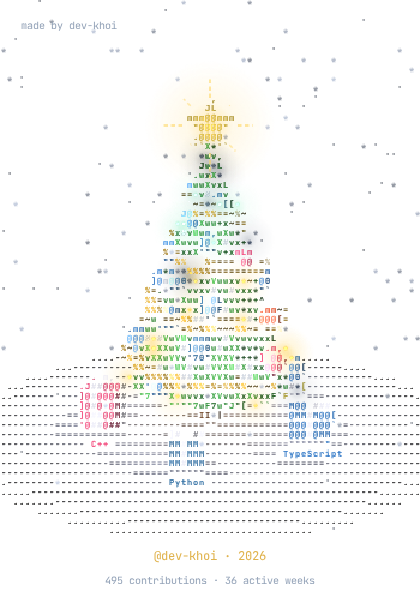
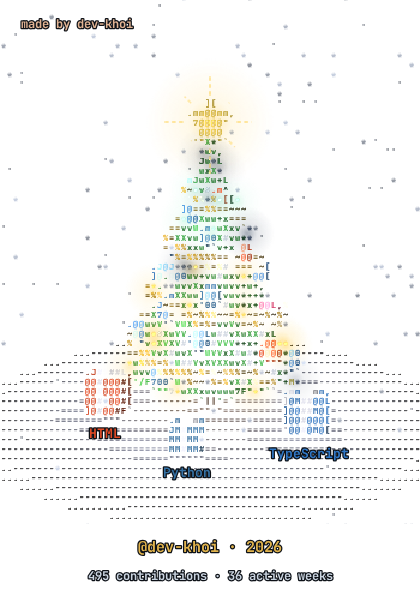
Refresh Gitmas tree

diff --git a/gitmas/preview.html b/gitmas/preview.html
@@ -641,6 +641,7 @@ var MerryGitmas = (() => {
       };
     }
     const scene = buildScene();
+    const giftLabels = [];
     const giftCycles = options.reference ? 1 : Math.max(1, Math.ceil(6 / Math.max(1, scene.gifts.length)));
     const weeklyLights = /* @__PURE__ */ new Map();
     if (!options.reference && options.state) {
@@ -1056,6 +1057,7 @@ var MerryGitmas = (() => {
           drawn++;
         }
       }
+      giftLabels.length = 0;
       const giftAngle = options.reference ? 0 : tAbs * TAU / 24 * (giftCycles - 1);
       const giftCos = Math.cos(Math.atan2(sinT, cosT) + giftAngle);
       const giftSin = Math.sin(Math.atan2(sinT, cosT) + giftAngle);
@@ -1072,6 +1074,16 @@ var MerryGitmas = (() => {
         const w = CAM_DIST / (CAM_DIST - zv) * scale;
         const row = Math.floor((centerY - yv * w - gridY) / cellH) + 1;
         if (row < 0 || row >= rows) return;
+        if (!options.reference) {
+          giftLabels.push({
+            text: name,
+            x: centerX + xr * w,
+            y: gridY + (row + 0.5) * cellH,
+            color: options.state?.languages[gi]?.color ?? "#d9a73c",
+            facing
+          });
+          return;
+        }
         const col0 = Math.round(
           (centerX + xr * w - gridX) / cellW - name.length / 2
         );
@@ -1389,6 +1401,9 @@ var MerryGitmas = (() => {
         gifts: scene.gifts.length,
         flakes: flakes.count
       },
+      get giftLabels() {
+        return giftLabels;
+      },
       geometry: {
         positions: scene.P,
         normals: scene.N,
@@ -1409,7 +1424,7 @@ var MerryGitmas = (() => {
     if (!ctx) throw new Error("Canvas 2D is unavailable.");
     const treeCanvas = document.createElement("canvas");
     treeCanvas.width = canvas.width;
-    const footer = Math.round(canvas.width * 0.15);
+    const footer = Math.round(canvas.width * 0.18);
     treeCanvas.height = canvas.height - footer;
     const bottomPadding = Math.min(48, treeCanvas.height * 0.1);
     const layoutHeight = treeCanvas.height - bottomPadding;
@@ -1419,28 +1434,57 @@ var MerryGitmas = (() => {
     const cropHeight = treeCanvas.height / zoom;
     const cropX = (treeCanvas.width - cropWidth) / 2;
     const cropY = layoutHeight - layoutHeight / zoom;
-    function draw(seconds, buildProgress = 1) {
+    const textCanvas = document.createElement("canvas");
+    textCanvas.width = canvas.width;
+    textCanvas.height = canvas.height;
+    const text = textCanvas.getContext("2d", { willReadFrequently: true });
+    if (!text) throw new Error("Text canvas 2D is unavailable.");
+    function label(value, x, y, size, color, align = "center") {
+      text.font = `bold ${size}px "JetBrains Mono", monospace`;
+      text.textAlign = align;
+      text.textBaseline = "middle";
+      text.lineJoin = "round";
+      text.lineWidth = 2.5;
+      text.strokeStyle = "#0d1117";
+      text.fillStyle = color;
+      text.strokeText(value, Math.round(x), Math.round(y), canvas.width - 28);
+      text.fillText(value, Math.round(x), Math.round(y), canvas.width - 28);
+    }
+    function draw(seconds, buildProgress = 1, crispText = false) {
       tree.draw(seconds, buildProgress);
       ctx.clearRect(0, 0, canvas.width, canvas.height);
       ctx.imageSmoothingEnabled = false;
       ctx.drawImage(treeCanvas, cropX, cropY, cropWidth, cropHeight, 0, 0, treeCanvas.width, treeCanvas.height);
-      ctx.textAlign = "left";
-      ctx.textBaseline = "top";
-      ctx.font = `${Math.max(9, canvas.width * 0.024)}px "JetBrains Mono", monospace`;
-      ctx.fillStyle = "#94a3b8";
-      ctx.fillText("made by dev-khoi", Math.max(16, canvas.width * 0.05), Math.max(16, canvas.width * 0.05));
       if (!options.transparent) {
         ctx.fillStyle = "#080e1b";
         ctx.fillRect(0, treeCanvas.height, canvas.width, footer);
       }
-      ctx.textAlign = "center";
-      ctx.textBaseline = "middle";
-      ctx.font = `${Math.max(9, canvas.width * 0.029)}px "JetBrains Mono", monospace`;
-      ctx.fillStyle = "#e0b34d";
-      ctx.fillText(`@${state.login} \xB7 ${state.year}${state.demo ? " \xB7 DEMO" : ""}`, canvas.width / 2, treeCanvas.height + footer * 0.32, canvas.width - 24);
-      ctx.font = `${Math.max(8, canvas.width * 0.024)}px "JetBrains Mono", monospace`;
-      ctx.fillStyle = "#94a3b8";
-      ctx.fillText(`${state.contributions.toLocaleString("en-US")} contributions \xB7 ${state.activeWeeks} active weeks`, canvas.width / 2, treeCanvas.height + footer * 0.7, canvas.width - 24);
+      text.clearRect(0, 0, canvas.width, canvas.height);
+      const languageSize = Math.max(12, Math.round(canvas.width * 0.031));
+      const placed = [];
+      for (const gift of tree.giftLabels.filter((gift2) => gift2.facing >= 0.35).sort((a, b) => a.y - b.y)) {
+        text.font = `bold ${languageSize}px "JetBrains Mono", monospace`;
+        const width = Math.min(text.measureText(gift.text).width, canvas.width - 28);
+        const x = Math.max(width / 2 + 12, Math.min(canvas.width - width / 2 - 12, (gift.x - cropX) * zoom));
+        let y = Math.min(treeCanvas.height - languageSize, (gift.y - cropY) * zoom + 4);
+        for (const other of placed) {
+          if (Math.abs(x - other.x) < (width + other.width) / 2 + 8 && Math.abs(y - other.y) < languageSize + 5) {
+            y = Math.min(treeCanvas.height - languageSize, other.y + languageSize + 6);
+            if (Math.abs(y - other.y) < languageSize + 5) y = other.y - languageSize - 6;
+          }
+        }
+        placed.push({ x, y, width });
+        label(gift.text, x, y, languageSize, gift.color);
+      }
+      label("made by dev-khoi", Math.max(16, canvas.width * 0.05), Math.max(22, canvas.width * 0.06), Math.max(11, Math.round(canvas.width * 0.029)), "#e1b494", "left");
+      label(`@${state.login} \xB7 ${state.year}${state.demo ? " \xB7 DEMO" : ""}`, canvas.width / 2, treeCanvas.height + footer * 0.32, Math.max(13, Math.round(canvas.width * 0.036)), "#e0b34d");
+      label(`${state.contributions.toLocaleString("en-US")} contributions \xB7 ${state.activeWeeks} active weeks`, canvas.width / 2, treeCanvas.height + footer * 0.7, Math.max(11, Math.round(canvas.width * 0.029)), "#cbd5e1");
+      if (crispText) {
+        const image = text.getImageData(0, 0, canvas.width, canvas.height);
+        for (let i = 3; i < image.data.length; i += 4) image.data[i] = image.data[i] >= 96 ? 255 : 0;
+        text.putImageData(image, 0, 0);
+      }
+      ctx.drawImage(textCanvas, 0, 0);
     }
     return { draw, counts: tree.counts };
   }
@@ -1448,7 +1492,7 @@ var MerryGitmas = (() => {
 })();
 </script>
 <script>
-const state = {"login":"dev-khoi","year":2026,"seed":1299292730,"contributions":495,"activeWeeks":36,"longestStreak":25,"scale":0.8996045915761144,"fullness":0.6129285308902092,"twinkle":0.29,"weeks":[{"index":0,"startsOn":"2025-12-29","count":0,"observed":true,"longest":false},{"index":1,"startsOn":"2026-01-05","count":2,"observed":true,"longest":true},{"index":2,"startsOn":"2026-01-12","count":20,"observed":true,"longest":true},{"index":3,"startsOn":"2026-01-19","count":2,"observed":true,"longest":true},{"index":4,"startsOn":"2026-01-26","count":1,"observed":true,"longest":true},{"index":5,"startsOn":"2026-02-02","count":12,"observed":true,"longest":true},{"index":6,"startsOn":"2026-02-09","count":25,"observed":true,"longest":true},{"index":7,"startsOn":"2026-02-16","count":4,"observed":true,"longest":true},{"index":8,"startsOn":"2026-02-23","count":17,"observed":true,"longest":true},{"index":9,"startsOn":"2026-03-02","count":33,"observed":true,"longest":true},{"index":10,"startsOn":"2026-03-09","count":11,"observed":true,"longest":true},{"index":11,"startsOn":"2026-03-16","count":30,"observed":true,"longest":true},{"index":12,"startsOn":"2026-03-23","count":23,"observed":true,"longest":true},{"index":13,"startsOn":"2026-03-30","count":14,"observed":true,"longest":true},{"index":14,"startsOn":"2026-04-06","count":13,"observed":true,"longest":true},{"index":15,"startsOn":"2026-04-13","count":6,"observed":true,"longest":true},{"index":16,"startsOn":"2026-04-20","count":15,"observed":true,"longest":true},{"index":17,"startsOn":"2026-04-27","count":34,"observed":true,"longest":true},{"index":18,"startsOn":"2026-05-04","count":18,"observed":true,"longest":true},{"index":19,"startsOn":"2026-05-11","count":6,"observed":true,"longest":true},{"index":20,"startsOn":"2026-05-18","count":2,"observed":true,"longest":true},{"index":21,"startsOn":"2026-05-25","count":29,"observed":true,"longest":true},{"index":22,"startsOn":"2026-06-01","count":6,"observed":true,"longest":true},{"index":23,"startsOn":"2026-06-08","count":26,"observed":true,"longest":true},{"index":24,"startsOn":"2026-06-15","count":6,"observed":true,"longest":true},{"index":25,"startsOn":"2026-06-22","count":8,"observed":true,"longest":true},{"index":26,"startsOn":"2026-06-29","count":0,"observed":true,"longest":false},{"index":27,"startsOn":"2026-07-06","count":0,"observed":true,"longest":false},{"index":28,"startsOn":"2026-07-13","count":0,"observed":true,"longest":false},{"index":29,"startsOn":"2026-07-20","count":0,"observed":true,"longest":false},{"index":30,"startsOn":"2026-07-27","count":0,"observed":true,"longest":false},{"index":31,"startsOn":"2026-08-03","count":0,"observed":true,"longest":false},{"index":32,"startsOn":"2026-08-10","count":0,"observed":true,"longest":false},{"index":33,"startsOn":"2026-08-17","count":0,"observed":true,"longest":false},{"index":34,"startsOn":"2026-08-24","count":10,"observed":true,"longest":false},{"index":35,"startsOn":"2026-08-31","count":1,"observed":true,"longest":false},{"index":36,"startsOn":"2026-09-07","count":19,"observed":true,"longest":false},{"index":37,"startsOn":"2026-09-14","count":10,"observed":true,"longest":false},{"index":38,"startsOn":"2026-09-21","count":21,"observed":true,"longest":false},{"index":39,"startsOn":"2026-09-28","count":5,"observed":true,"longest":false},{"index":40,"startsOn":"2026-10-05","count":17,"observed":true,"longest":false},{"index":41,"startsOn":"2026-10-12","count":5,"observed":true,"longest":false},{"index":42,"startsOn":"2026-10-19","count":0,"observed":true,"longest":false},{"index":43,"startsOn":"2026-10-26","count":2,"observed":true,"longest":false},{"index":44,"startsOn":"2026-11-02","count":13,"observed":true,"longest":false},{"index":45,"startsOn":"2026-11-09","count":29,"observed":true,"longest":false},{"index":46,"startsOn":"2026-11-16","count":0,"observed":false,"longest":false},{"index":47,"startsOn":"2026-11-23","count":0,"observed":false,"longest":false},{"index":48,"startsOn":"2026-11-30","count":0,"observed":false,"longest":false},{"index":49,"startsOn":"2026-12-07","count":0,"observed":false,"longest":false},{"index":50,"startsOn":"2026-12-14","count":0,"observed":false,"longest":false},{"index":51,"startsOn":"2026-12-21","count":0,"observed":false,"longest":false},{"index":52,"startsOn":"2026-12-28","count":0,"observed":false,"longest":false}],"languages":[{"name":"TypeScript","color":"#3178c6","share":0.65},{"name":"Python","color":"#3572A5","share":0.2},{"name":"C++","color":"#f34b7d","share":0.05},{"name":"HTML","color":"#e34c26","share":0.05},{"name":"JavaScript","color":"#f1e05a","share":0.05}],"observedOn":"2026-11-15","demo":false};
+const state = {"login":"dev-khoi","year":2026,"seed":1299292730,"contributions":495,"activeWeeks":36,"longestStreak":25,"scale":0.8996045915761144,"fullness":0.6129285308902092,"twinkle":0.29,"weeks":[{"index":0,"startsOn":"2025-12-29","count":0,"observed":true,"longest":false},{"index":1,"startsOn":"2026-01-05","count":2,"observed":true,"longest":true},{"index":2,"startsOn":"2026-01-12","count":20,"observed":true,"longest":true},{"index":3,"startsOn":"2026-01-19","count":2,"observed":true,"longest":true},{"index":4,"startsOn":"2026-01-26","count":1,"observed":true,"longest":true},{"index":5,"startsOn":"2026-02-02","count":12,"observed":true,"longest":true},{"index":6,"startsOn":"2026-02-09","count":25,"observed":true,"longest":true},{"index":7,"startsOn":"2026-02-16","count":4,"observed":true,"longest":true},{"index":8,"startsOn":"2026-02-23","count":17,"observed":true,"longest":true},{"index":9,"startsOn":"2026-03-02","count":33,"observed":true,"longest":true},{"index":10,"startsOn":"2026-03-09","count":11,"observed":true,"longest":true},{"index":11,"startsOn":"2026-03-16","count":30,"observed":true,"longest":true},{"index":12,"startsOn":"2026-03-23","count":23,"observed":true,"longest":true},{"index":13,"startsOn":"2026-03-30","count":14,"observed":true,"longest":true},{"index":14,"startsOn":"2026-04-06","count":13,"observed":true,"longest":true},{"index":15,"startsOn":"2026-04-13","count":6,"observed":true,"longest":true},{"index":16,"startsOn":"2026-04-20","count":15,"observed":true,"longest":true},{"index":17,"startsOn":"2026-04-27","count":34,"observed":true,"longest":true},{"index":18,"startsOn":"2026-05-04","count":18,"observed":true,"longest":true},{"index":19,"startsOn":"2026-05-11","count":6,"observed":true,"longest":true},{"index":20,"startsOn":"2026-05-18","count":2,"observed":true,"longest":true},{"index":21,"startsOn":"2026-05-25","count":29,"observed":true,"longest":true},{"index":22,"startsOn":"2026-06-01","count":6,"observed":true,"longest":true},{"index":23,"startsOn":"2026-06-08","count":26,"observed":true,"longest":true},{"index":24,"startsOn":"2026-06-15","count":6,"observed":true,"longest":true},{"index":25,"startsOn":"2026-06-22","count":8,"observed":true,"longest":true},{"index":26,"startsOn":"2026-06-29","count":0,"observed":true,"longest":false},{"index":27,"startsOn":"2026-07-06","count":0,"observed":true,"longest":false},{"index":28,"startsOn":"2026-07-13","count":0,"observed":true,"longest":false},{"index":29,"startsOn":"2026-07-20","count":0,"observed":true,"longest":false},{"index":30,"startsOn":"2026-07-27","count":0,"observed":true,"longest":false},{"index":31,"startsOn":"2026-08-03","count":0,"observed":true,"longest":false},{"index":32,"startsOn":"2026-08-10","count":0,"observed":true,"longest":false},{"index":33,"startsOn":"2026-08-17","count":0,"observed":true,"longest":false},{"index":34,"startsOn":"2026-08-24","count":10,"observed":true,"longest":false},{"index":35,"startsOn":"2026-08-31","count":1,"observed":true,"longest":false},{"index":36,"startsOn":"2026-09-07","count":19,"observed":true,"longest":false},{"index":37,"startsOn":"2026-09-14","count":10,"observed":true,"longest":false},{"index":38,"startsOn":"2026-09-21","count":21,"observed":true,"longest":false},{"index":39,"startsOn":"2026-09-28","count":5,"observed":true,"longest":false},{"index":40,"startsOn":"2026-10-05","count":17,"observed":true,"longest":false},{"index":41,"startsOn":"2026-10-12","count":5,"observed":true,"longest":false},{"index":42,"startsOn":"2026-10-19","count":0,"observed":true,"longest":false},{"index":43,"startsOn":"2026-10-26","count":2,"observed":true,"longest":false},{"index":44,"startsOn":"2026-11-02","count":13,"observed":true,"longest":false},{"index":45,"startsOn":"2026-11-09","count":29,"observed":true,"longest":false},{"index":46,"startsOn":"2026-11-16","count":0,"observed":false,"longest":false},{"index":47,"startsOn":"2026-11-23","count":0,"observed":false,"longest":false},{"index":48,"startsOn":"2026-11-30","count":0,"observed":false,"longest":false},{"index":49,"startsOn":"2026-12-07","count":0,"observed":false,"longest":false},{"index":50,"startsOn":"2026-12-14","count":0,"observed":false,"longest":false},{"index":51,"startsOn":"2026-12-21","count":0,"observed":false,"longest":false},{"index":52,"startsOn":"2026-12-28","count":0,"observed":false,"longest":false}],"languages":[{"name":"TypeScript","color":"#3178c6","share":0.6},{"name":"Python","color":"#3572A5","share":0.2},{"name":"HTML","color":"#e34c26","share":0.1},{"name":"C++","color":"#f34b7d","share":0.05},{"name":"JavaScript","color":"#f1e05a","share":0.05}],"observedOn":"2026-11-15","demo":false};
 const canvas = document.getElementById('tree');
 const pause = document.getElementById('pause');
 const slider = document.getElementById('time');
